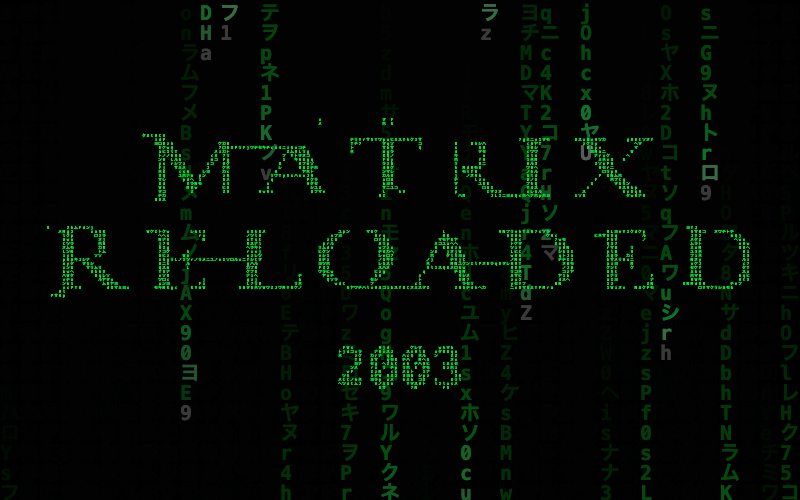
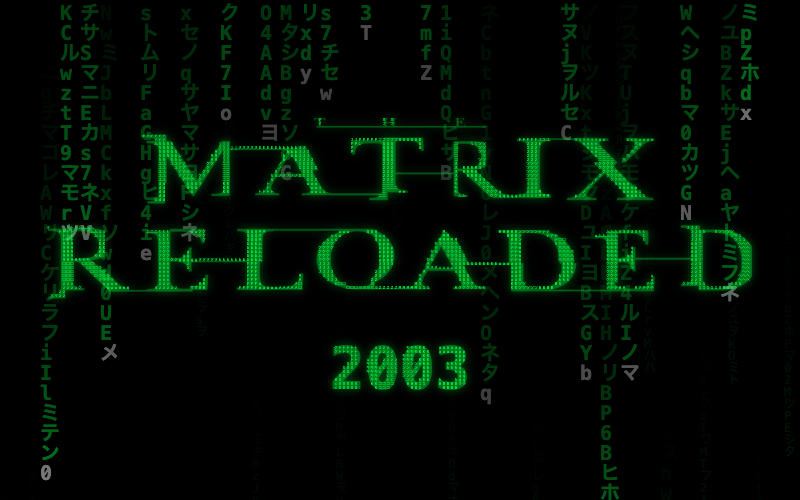
Refresh the cinematic previews and viewing instructions

diff --git a/README.md b/README.md
@@ -2,7 +2,7 @@
 
 This is a little passion project of mine. I'm a big fan of the original Matrix trilogy, and apparently watching green code fall down a screen never gets old.
 
-The idea was to have the rain form each movie's title, hang there for a bit, then fall back into the code. That's what it does now, years included.
+The idea was to have the rain form each movie's title, hang there for a bit, then fall back into the code. That's what it does now, years included. Characters get caught straight out of the falling streams and settle into the lettering.
 
 ![Falling code forming the original Matrix trilogy titles and years](./assets/previews/trilogy-rain.gif)
 
@@ -18,7 +18,9 @@ The idea was to have the rain form each movie's title, hang there for a bit, the
   <a href="./assets/previews/revolutions.png"><img src="./assets/previews/revolutions.png" width="32%" alt="The Matrix Revolutions (2003) formed from green code"></a>
 </p>
 
-Each title gets 15 seconds before the next one takes over. The whole thing loops every 45 seconds, with the rain carrying on behind it. The GIF is a shorter preview of each title forming, captured from the project itself.
+Each title gets 15 seconds before the next one takes over. The first film takes its time, Reloaded builds faster, and Revolutions falls away in a slower cascade. The whole thing loops every 45 seconds.
+
+Smaller, slower streams sit in the distance, with a bit of glow and darker rain behind the titles to help the lettering stand out. The GIF is a shorter look at the reveals and releases, captured from the project itself.
 
 ## Give it a go
 
@@ -41,10 +43,14 @@ Then open <http://localhost:8765>.
 | Up / + | Increase background rain speed |
 | Down / - | Decrease background rain speed |
 | R | Restart from THE MATRIX (1999) |
+| Left / Right | Previous or next film |
+| F | Enter or exit fullscreen |
 | Mouse | Move a background rain column |
 | ? button | Show controls; Escape closes them |
 
-The speed controls change the background rain; the titles keep their timing. Resizing keeps your place in the trilogy. If your device asks for reduced motion, it starts on a still title. Press Space when you want it moving.
+Move the pointer, tap the screen or use the keyboard to bring up the viewing controls. There's pause/play, previous/next, fullscreen and help. They fade away while you're watching and stay visible while paused or focused with the keyboard.
+
+The speed controls change the free-flowing rain; the title capture keeps its timing. Resizing keeps your place in the trilogy. If your device asks for reduced motion, it starts on a still title. You can browse the films while paused, or press Play when you want it moving. Fullscreen depends on browser support.
 
 ## Checking things still work
 
@@ -53,10 +59,10 @@ node --check script.js
 node tests/animation.cjs
 ```
 
-These cover the animation logic: timing, pause and reset, resizing, trilogy order, reduced motion and artwork fallback. Desktop and phone layouts have also been checked in the browser, along with opening the page straight from disk.
+These cover the animation logic: real stream capture, timing, pause and reset, film navigation, resizing, trilogy order, reduced motion and artwork fallback. Browser checks covered desktop and touch-emulated phone layouts, keyboard controls, help, idle hiding and fullscreen in Chrome, plus opening the page straight from disk.
 
 ## A note on the lettering
 
-The title shapes come from sourced film wordmarks. The code uses them as a guide for where the little falling characters should settle. Small details depend on the screen size and glyph spacing.
+The title shapes come from sourced film wordmarks. The code uses them as a guide for where the little falling characters should settle, with a faint outline underneath for the finer details. Small details still depend on the screen size and glyph spacing.
 
 Everything needed is stored locally. If the artwork can't load, the titles fall back to ordinary text. [Artwork sources, credits and rights notes are here](./assets/wordmarks/SOURCES.md).

diff --git a/assets/wordmarks/SOURCES.md b/assets/wordmarks/SOURCES.md
@@ -1,6 +1,6 @@
 # Title artwork sources
 
-These masks preserve the sourced wordmark silhouettes, including the connected serifs and letter spacing. They are used only to position falling glyphs. Release years are separate browser text.
+These masks preserve the sourced wordmark silhouettes, including the connected serifs and letter spacing. They guide falling glyphs and provide a faint glowing silhouette behind the settled title. Release years are separate browser text.
 
 | Film | Source | Original asset |
 | --- | --- | --- |
